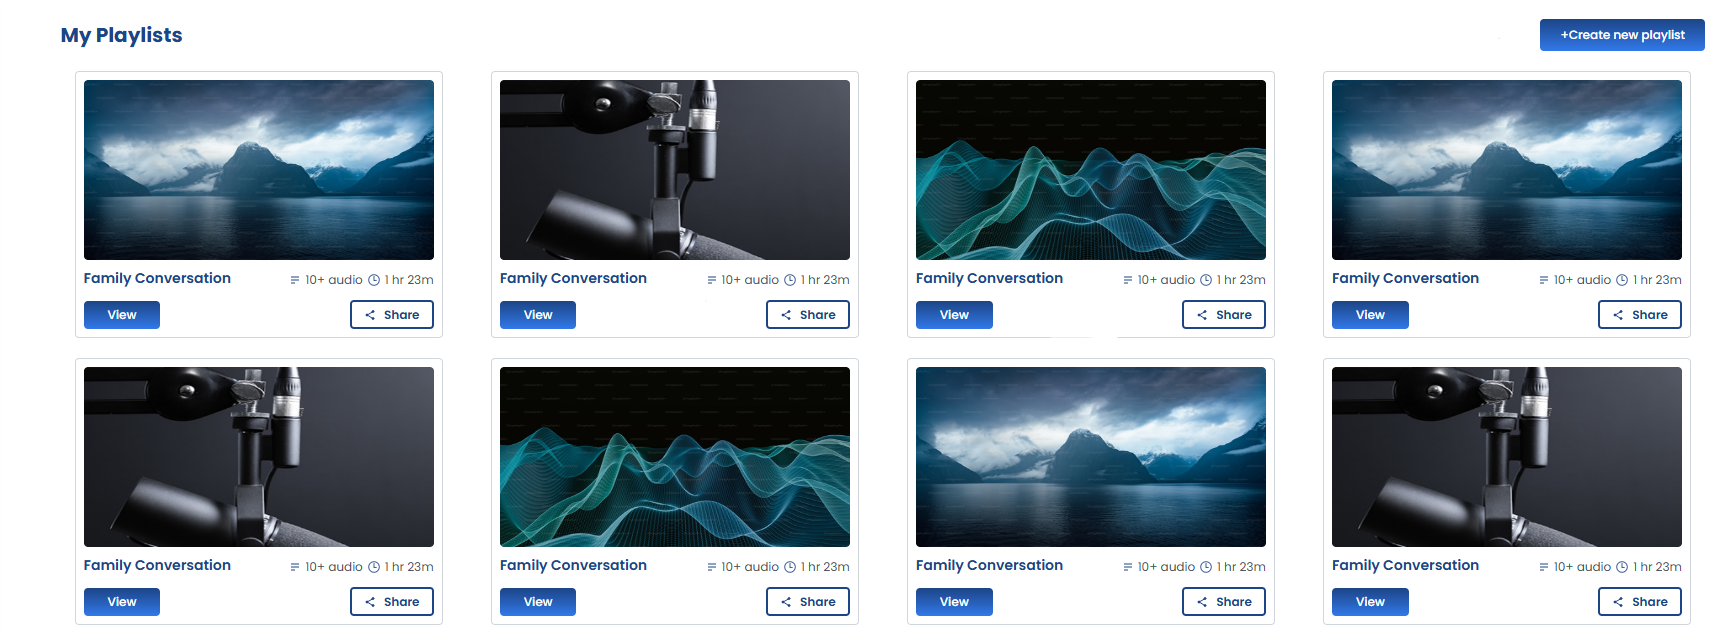
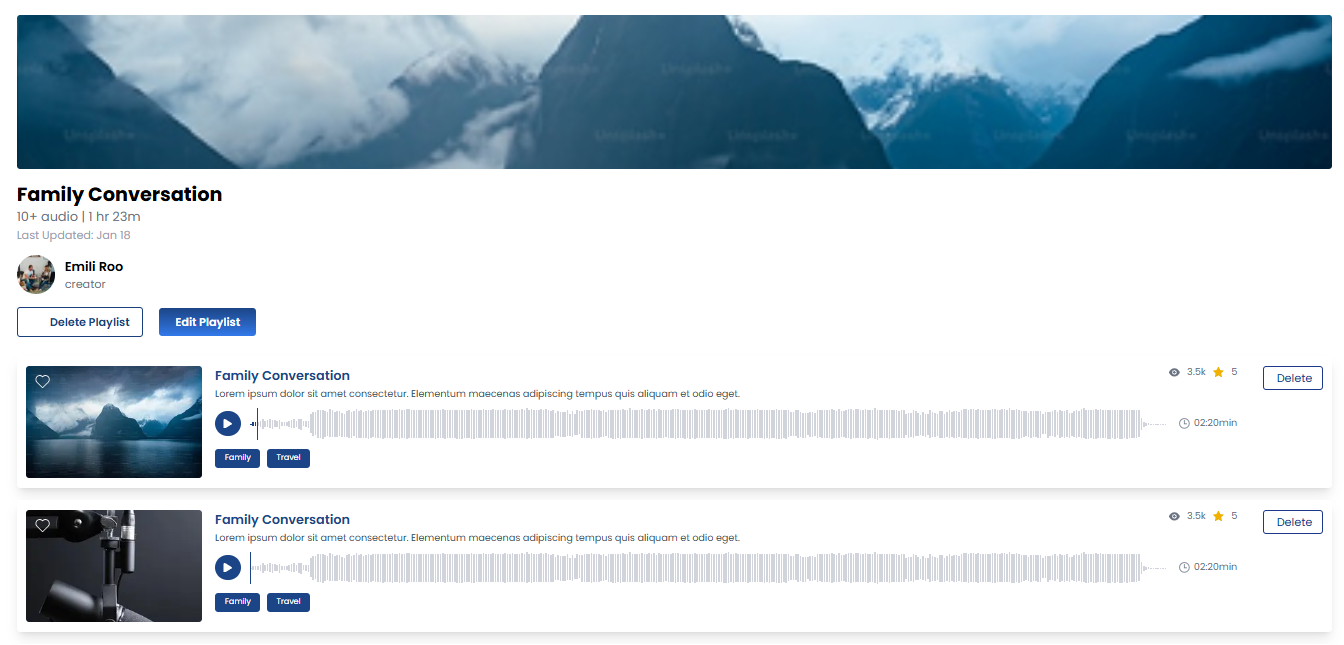
playlist details added

diff --git a/src/app/(main-route)/(no-footer-route)/chatting/playlist/[id]/page.jsx b/src/app/(main-route)/(no-footer-route)/chatting/playlist/[id]/page.jsx
@@ -1,11 +1,202 @@
+"use client";
 
+import { useParams } from "next/navigation";
+import Image from "next/image";
+import { Button } from "@/components/ui/button";
+import { useGetSinglePlaylistQuery } from "@/lib/features/api/chattingApi";
+import { useDispatch, useSelector } from "react-redux";
+import { playAudio, pauseAudio } from "@/lib/features/slices/audio/audioSlice";
+import { ListMusic, Clock, User, Eye, Star, Play, Trash2, Edit, Pause } from "lucide-react";
+import { Avatar, AvatarImage, AvatarFallback } from "@/components/ui/avatar";
+import { Skeleton } from "@/components/ui/skeleton";
 
-const PlaylistDetails = () => {
+const PlaylistDetailPage = () => {
+  const params = useParams();
+  const playlistId = params.id;
+  const dispatch = useDispatch(); // Initialize useDispatch
+
+  const { data, isLoading, isError } = useGetSinglePlaylistQuery(playlistId);
+  const { currentAudio, isPlaying } = useSelector((state) => state.audio); // Access Redux audio state
+
+  // Function to handle playing/pausing an audio
+  const handlePlayAudio = (audio) => {
+    if (currentAudio?._id === audio._id && isPlaying) {
+      dispatch(pauseAudio()); // Pause if already playing this audio
+    } else {
+      dispatch(playAudio(audio)); // Play this audio
+    }
+  };
+
+  const playlist = data?.data;
+
+  // Function to format duration from seconds to Hh Mm
+  const formatDuration = (totalSeconds) => {
+    if (isNaN(totalSeconds) || totalSeconds < 0) return "0m";
+    const hours = Math.floor(totalSeconds / 3600);
+    const minutes = Math.floor((totalSeconds % 3600) / 60);
+    if (hours > 0) {
+      return `${hours}h ${minutes}m`;
+    } else {
+      return `${minutes}m`;
+    }
+  };
+
+  // Calculate total duration of audios in the playlist
+  const totalPlaylistDuration = playlist?.audios?.reduce((sum, audio) => sum + (audio.duration || 0), 0);
+
+  if (isLoading) {
     return (
-        <div>
-            
+      <div className="p-4">
+        {/* Banner Skeleton */}
+        <Skeleton className="w-full h-48 rounded-lg mb-6" />
+
+        {/* Header Info Skeleton */}
+        <div className="mb-6">
+          <Skeleton className="h-8 w-3/4 mb-2" />
+          <Skeleton className="h-5 w-1/2 mb-4" />
+          <Skeleton className="h-4 w-1/4 mb-4" />
+
+          {/* Creator Info Skeleton */}
+          <div className="flex items-center gap-3 mb-6">
+            <Skeleton className="w-10 h-10 rounded-full" />
+            <div>
+              <Skeleton className="h-5 w-24 mb-1" />
+              <Skeleton className="h-4 w-20" />
+            </div>
+          </div>
+
+          {/* Buttons Skeleton */}
+          <div className="flex gap-4">
+            <Skeleton className="h-10 w-32 rounded-md" />
+            <Skeleton className="h-10 w-32 rounded-md" />
+          </div>
         </div>
+
+        {/* Audio List Skeleton */}
+        <div className="space-y-4">
+          {[...Array(3)].map((_, index) => (
+            <div key={index} className="flex items-center bg-card rounded-lg shadow-sm p-4">
+              <Skeleton className="w-24 h-24 rounded-md flex-shrink-0 mr-4" />
+              <div className="flex-1">
+                <Skeleton className="h-6 w-3/4 mb-2" />
+                <Skeleton className="h-4 w-full mb-2" />
+                <Skeleton className="h-4 w-1/2" />
+              </div>
+              <Skeleton className="w-20 h-10 rounded-md ml-4" />
+            </div>
+          ))}
+        </div>
+      </div>
     );
+  }
+
+  if (isError) {
+    return <div className="text-center text-red-500 p-4">Error loading playlist details.</div>;
+  }
+
+  if (!playlist) {
+    return <div className="text-center text-gray-500 p-4">Playlist not found.</div>;
+  }
+
+  return (
+    <div className="p-4">
+      {/* Banner Image */}
+      <div className="relative w-full h-48 rounded-lg overflow-hidden mb-6">
+        <Image
+          src={playlist.cover_image || "/placeholder.png"}
+          alt={playlist.name || "Playlist Banner"}
+          fill
+          className="object-cover"
+        />
+      </div>
+
+      {/* Playlist Header Info */}
+      <div className="mb-6">
+        <h1 className="text-3xl font-bold mb-2">{playlist.name}</h1>
+        <p className="text-gray-600 text-sm mb-4">
+          {playlist.audios?.length || 0}+ audio | {formatDuration(totalPlaylistDuration)}
+        </p>
+        <p className="text-gray-500 text-xs mb-4">Last Updated: {new Date(playlist.updatedAt).toLocaleDateString()}</p>
+
+        {/* Creator Info */}
+        <div className="flex items-center gap-3 mb-6">
+          <Avatar className="w-10 h-10">
+            <AvatarImage src={playlist.user?.profile_image || "/placeholder.png"} alt={playlist.user?.name || "Creator"} />
+            <AvatarFallback>{playlist.user?.name ? playlist.user.name.charAt(0) : "CN"}</AvatarFallback>
+          </Avatar>
+          <div>
+            <p className="font-semibold">{playlist.user?.name}</p>
+            <p className="text-sm text-gray-500">creator</p>
+          </div>
+        </div>
+
+        {/* Action Buttons */}
+        <div className="flex gap-4">
+          <Button variant="outline" className="border-destructive text-destructive hover:bg-destructive/10">
+            <Trash2 className="w-4 h-4 mr-2" /> Delete Playlist
+          </Button>
+          <Button className="bg-primary text-primary-foreground hover:bg-primary/90">
+            <Edit className="w-4 h-4 mr-2" /> Edit Playlist
+          </Button>
+        </div>
+      </div>
+
+      {/* Playlist Description */}
+      {playlist.description && (
+        <div className="mb-6">
+          <h2 className="text-xl font-semibold mb-2">Description</h2>
+          <p className="text-gray-700">{playlist.description}</p>
+        </div>
+      )}
+
+      {/* Audio List */}
+      <div className="space-y-4">
+        <h2 className="text-xl font-semibold mb-4">Audios in this Playlist</h2>
+        {playlist.audios && playlist.audios.length > 0 ? (
+          playlist.audios.map((audio) => (
+            <div key={audio._id} className="flex items-center bg-card rounded-lg shadow-sm p-4">
+              <div className="relative w-24 h-24 rounded-md overflow-hidden flex-shrink-0 mr-4">
+                <Image
+                  src={audio.cover_image || "/placeholder.png"}
+                  alt={audio.title || "Audio Cover"}
+                  fill
+                  className="object-cover"
+                />
+              </div>
+              <div className="flex-1">
+                <h3 className="font-semibold text-lg truncate mb-1">{audio.title}</h3>
+                <p className="text-sm text-gray-600 truncate mb-2">{audio.description}</p>
+                <div className="flex items-center gap-2 text-xs text-gray-500">
+                  {audio.tags && audio.tags.map((tag, idx) => (
+                    <span key={idx} className="bg-gray-100 px-2 py-1 rounded-full">{tag}</span>
+                  ))}
+                </div>
+              </div>
+              <div className="flex items-center gap-4 ml-4">
+                <Button size="icon" variant="ghost" className="rounded-full" onClick={() => handlePlayAudio(audio)}>
+                  {currentAudio?._id === audio._id && isPlaying ? (
+                    <Pause className="w-6 h-6" />
+                  ) : (
+                    <Play className="w-6 h-6" />
+                  )}
+                </Button>
+                <div className="flex items-center text-sm text-gray-600">
+                  <Eye className="w-4 h-4 mr-1" /> {audio.totalPlay || 0}k
+                </div>
+                <div className="flex items-center text-sm text-gray-600">
+                  <Star className="w-4 h-4 mr-1" /> {audio.totalRating || 0}
+                </div>
+                <div className="text-sm text-gray-600">{formatDuration(audio.duration)}</div>
+                <Button size="sm" variant="outline" className="border-destructive text-destructive hover:bg-destructive/10">Delete</Button>
+              </div>
+            </div>
+          ))
+        ) : (
+          <p className="text-center text-gray-500">No audios in this playlist.</p>
+        )}
+      </div>
+    </div>
+  );
 };
 
-export default PlaylistDetails;
+export default PlaylistDetailPage;

diff --git a/src/components/chatting/playlist/PlaylistCard.jsx b/src/components/chatting/playlist/PlaylistCard.jsx
@@ -1,6 +1,7 @@
 import Image from "next/image";
 import { Button } from "@/components/ui/button";
 import { ListMusic, Share2 } from "lucide-react";
+import Link from "next/link"; // Import Link
 
 const PlaylistCard = ({ playlist }) => {
   const audioCount = playlist.audios?.length || 0;
@@ -30,8 +31,10 @@ const PlaylistCard = ({ playlist }) => {
           )} */}
         </div>
         <div className="flex justify-between gap-2">
-          <Button size={"sm"} className="flex-1 bg-primary text-primary-foreground hover:bg-primary/90 dark:text-white">View</Button> {/* Using global primary color */}
-          <Button size={"sm"} variant="outline" className="flex-1 border-secondary text-secondary-foreground hover:bg-secondary/80"> {/* Using global secondary color */}
+          <Link href={`/chatting/playlist/${playlist._id}`} passHref>
+            <Button size={"sm"} className="w-26 bg-primary text-primary-foreground hover:bg-primary/90 dark:text-white">View</Button>
+          </Link>
+          <Button size={"sm"} variant="outline" className="w-28 border-secondary text-secondary-foreground hover:bg-secondary/80">
             <Share2 className="w-4 h-4 mr-1" />
             Share
           </Button>

diff --git a/src/app/(main-route)/(no-footer-route)/chatting/playlist/page.jsx b/src/app/(main-route)/(no-footer-route)/chatting/playlist/page.jsx
@@ -46,7 +46,7 @@ const PlaylistPage = () => {
       </div>
 
       <Tabs defaultValue="all-playlists" className="w-full">
-        <TabsList className="inline-flex ml-auto">
+        <TabsList className="inline-flex mr-auto">
           <TabsTrigger value="all-playlists">All Playlists</TabsTrigger>
           <TabsTrigger value="my-playlists">My Playlists</TabsTrigger>
         </TabsList>
@@ -95,7 +95,7 @@ const PlaylistPage = () => {
             <div className="text-center text-red-500 p-4">Error loading your playlists.</div>
           ) : (
             <>
-              <div className="grid grid-cols-1 sm:grid-cols-2 md:grid-cols-3 lg:grid-cols-4 gap-6 mt-6">
+              <div className="grid grid-cols-1 sm:grid-cols-2 md:grid-cols-3 lg:grid-cols-4 xl:grid-cols-5 gap-6 mt-6">
                 {myPlaylists.length > 0 ? (
                   myPlaylists.map((playlist) => (
                     <PlaylistCard key={playlist._id} playlist={playlist} />
